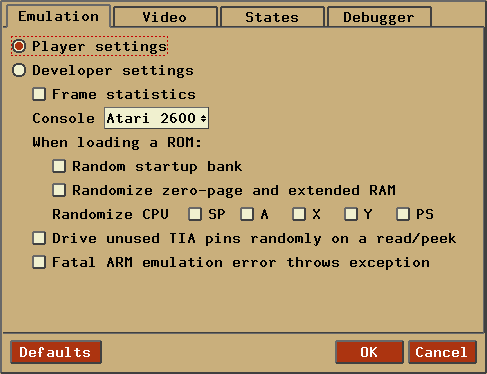
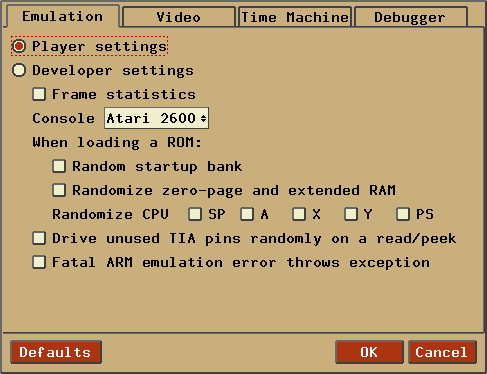
"Time Machine" name change

Changed region(s): [[0.0308, 0.0, 0.9548, 0.0882], [0.9548, 0.0294, 0.9856, 0.0588]]

diff --git a/docs/index.html b/docs/index.html
@@ -295,7 +295,7 @@
     <li>TIA emulation supports full collision checking, with ability to disable
       TIA sprites and collisions for each object separately</li>
     <li>Full system state save/load functionality</li>
-    <li>Automatic save state creation which allows moving back and forth in the recorded timeline</li>
+    <li>Automatic save state creation ('Time Machine') which allows moving back and forth in the recorded timeline</li>
     <li>Cross-platform UI including a built-in ROM launcher frontend</li>
     <li>Built-in extensive debugger, including static analysis with the Distella disassembler
       and dynamic analysis at runtime by tracking code/graphics/data sections, and
@@ -1613,9 +1613,9 @@
     </tr>
 
     <tr>
-      <td>Toggle 'Continuous Rewind' mode</td>
-      <td>Alt + r</td>
-      <td>Cmd + r</td>
+      <td>Toggle 'Time Machine' mode</td>
+      <td>Alt + t</td>
+      <td>Cmd + t</td>
     </tr>
 
     <tr>
@@ -2314,6 +2314,11 @@
     </tr>
 
     <tr>
+      <td><pre>-dbg.fontsize &lt;small|medium|large|&gt;</pre></td>
+      <td>Set the font size in the debugger window.</td>
+    </tr>
+
+    <tr>
       <td><pre>-dbg.fontstyle &lt;0|1|2|3&gt;</pre></td>
       <td>How to use bold fonts in the debugger window. '0' means all normal font,
       '1' is bold labels only, '2' is bold non-labels only, '3' is all bold font.</td>
@@ -2502,23 +2507,23 @@
       <td><pre>-&lt;plr.|dev.&gt;debugcolors &lt;1|0&gt;</pre></td>
       <td>Enable/disable the fixed debug colors.</td>
     </tr><tr>
-      <td><pre>-&lt;plr.|dev.&gt;rewind &lt;1|0&gt;</pre></td>
-      <td>Enables continuous rewind</td>
+      <td><pre>-&lt;plr.|dev.&gt;timemachine &lt;1|0&gt;</pre></td>
+      <td>Enables the Time Machine</td>
     </tr><tr>
-      <td><pre>-&lt;plr.|dev.&gt;rewind.size &lt;20 - 1000&gt;</pre></td>
-      <td>Defines the rewind buffer size.</td>
-    </tr><tr>
-    </tr><tr>
-      <td><pre>-&lt;plr.|dev.&gt;rewind.uncompressed &lt;0 - 1000&gt;</pre></td>
-      <td>Defines the uncompressed rewind buffer size. Must be &lt;= rewind buffer size.</td>
+      <td><pre>-&lt;plr.|dev.&gt;tm.size &lt;20 - 1000&gt;</pre></td>
+      <td>Defines the Time Machine buffer size.</td>
     </tr><tr>
     </tr><tr>
-      <td><pre>-&lt;plr.|dev.&gt;rewind.interval &lt;1f|3f|10f|30f|1s|3s|10s&gt;</pre></td>
+      <td><pre>-&lt;plr.|dev.&gt;tm.uncompressed &lt;0 - 1000&gt;</pre></td>
+      <td>Defines the uncompressed Time Machine buffer size. Must be &lt;= Time Machine buffer size.</td>
+    </tr><tr>
+    </tr><tr>
+      <td><pre>-&lt;plr.|dev.&gt;tm.interval &lt;1f|3f|10f|30f|1s|3s|10s&gt;</pre></td>
       <td>Defines the interval between two save states.</td>
     </tr><tr>
     </tr><tr>
-      <td><pre>-&lt;plr.|dev.&gt;rewind.horizon &lt;3s|10s|30s|1m|3m|10m|30m|60m&gt;</pre></td>
-      <td>Defines the horizon of the rewind buffer.</td>
+      <td><pre>-&lt;plr.|dev.&gt;tm.horizon &lt;3s|10s|30s|1m|3m|10m|30m|60m&gt;</pre></td>
+      <td>Defines the horizon of the Time Machine.</td>
     </tr>
   </table>
   </blockquote>
@@ -3062,7 +3067,7 @@
   <p><b>Developer Settings</b> dialog (Video):</p>
   <table border="5" cellpadding="2" frame="box" rules="none">
     <tr>
-      <td><img src="graphics/options_developer_dbgcolors.png"></td>
+      <td><img src="graphics/options_developer_video.png"></td>
       <td>&nbsp;&nbsp;&nbsp;&nbsp;</td>
       <td valign="top">
         <table border="1" cellpadding="4">
@@ -3086,48 +3091,47 @@
     </tr>
   </table>
 
-  <p><b>Developer Settings</b> dialog (States) <b>TODO</b></p>
+  <p><b>Developer Settings</b> dialog (Time Machine)</p>
   <table border="5" cellpadding="2" frame="box" rules="none">
     <tr>
-      <td><img src="graphics/options_developer_states.png"></td>
+      <td><img src="graphics/options_developer_timemachine.png"></td>
       <td>&nbsp;&nbsp;&nbsp;&nbsp;</td>
       <td valign="top">
         <table border="1" cellpadding="4">
           <tr>
             <th>Item</th><th>Brief description</th><th>For more information,<br>see <a href="#CommandLine">CommandLine</a></th>
           </tr><tr>
-            <td>Continuous rewind</td>
+            <td>Time Machine</td>
             <td>
-              When continuous rewind is enabled, Stella will automatically
-              create new save states in the interval described below. The user
+              When the Time Machine is enabled, Stella will automatically
+              buffer save states in the interval described below. The user
               can then navigate back and forth within the recorded timeline.</br>
               Note: This buffer is identical with the one described in
-              <a href="debugger.html#GlobalButtons"><b>Debugger/Global Buttons</b></a>.
-              It is independent from the save states manually created
-              with F9.
+              <a href="debugger.html#GlobalButtons"><b>Debugger - Global Buttons</b></a>.
+              It is independent from the save states manually created with F9.
             </td>
-            <td>-plr.rewind<br>-dev.rewind</td>
+            <td>-plr.timemachine<br>-dev.timemachine</td>
           </tr><tr>
             <td>Buffer size</td>
             <td>
-              Defines the rewind buffer size. The larger the buffer, the less
+              Defines the Time Machine buffer size. The larger the buffer, the less
               save states have to be compressed to reach the horizon.
             </td>
-            <td>-plr.rewind.size<br>-dev.rewind.size</td>
+            <td>-plr.tm.size<br>-dev.tm.size</td>
           </tr><tr>
-            <td>Uncompressed size</td>
+            <td>Uncompressed size (*)</td>
             <td>
-              Defines the uncompressed rewind buffer size. States within this
+              Defines the uncompressed Time Machine buffer size. States within this
               area will not be compressed and keep their initial interval.</td>
-            <td><span style="white-space:nowrap">-plr.rewind.uncompressed<br>-dev.rewind.uncompressed</span></td>
+            <td><span style="white-space:nowrap">-plr.tm.uncompressed<br>-dev.tm.uncompressed</span></td>
           </tr><tr>
             <td>Interval</td>
             <td>Defines the interval between two save states when they are created.</td>
-            <td>-plr.rewind.interval<br>-dev.rewind.interval</td>
+            <td>-plr.tm.interval<br>-dev.tm.interval</td>
           </tr><tr>
             <td>Horizon</td>
             <td>
-              Defines the horizon of the rewind buffer. A large horizon allows
+              Defines the horizon of the Time Machine. A large horizon allows
               going back further in time. To reach the horizon, save states
               will be compressed (*). This means that more and more intermediate
               states will be removed and the interval between save states
@@ -3136,7 +3140,7 @@
               (*) Compresion only works if 'Uncompressed size' is smaller than
               'Buffer size'.
             </td>
-            <td>-plr.rewind.horizon<br>-dev.rewind.horizon</td>
+            <td>-plr.tm.horizon<br>-dev.tm.horizon</td>
           </tr>
         </table>
       </td>
@@ -3151,8 +3155,8 @@
       <td valign="top">
         <table border="1" cellpadding="4">
           <tr><th>Item</th><th>Brief description</th><th>For more information,<br>see <a href="#CommandLine">CommandLine</a></th></tr>
+          <tr><td>Font size</td><td>Self-explanatory (requires ROM reload)</td><td>-dbg.fontsize</td></tr>
           <tr><td>Font style</td><td>Self-explanatory (requires ROM reload)</td><td>-dbg.fontstyle</td></tr>
-          <tr><td>Font size</td><td>Self-explanatory (requires ROM reload)</td><td>N/A</td></tr>
           <tr><td>Debugger width/height</td><td>Self-explanatory (requires ROM reload)</td><td>-dbg.res</td></tr>
         </table>
       </td>

diff --git a/docs/debugger.html b/docs/debugger.html
@@ -320,7 +320,7 @@ which will undo the previous Step/Trace/Scan/Frame... advance, the smaller butto
 the left bottom (labeled '&gt;') performs the unwind operation, which will undo the
 previous rewind operation. The rewind buffer is 100 levels deep by default, the
 size can be configured e.g. in the
-<b><a href="index.html#Debugger">Developer Settings</a> - States</b> dialog.<p>
+<b><a href="index.html#Debugger">Developer Settings</a> - Time Machine</b> dialog.<p>
 
 <p>The other operations are Step, Trace, Scan+1, Frame+1 and Exit (debugger).</p>
 
